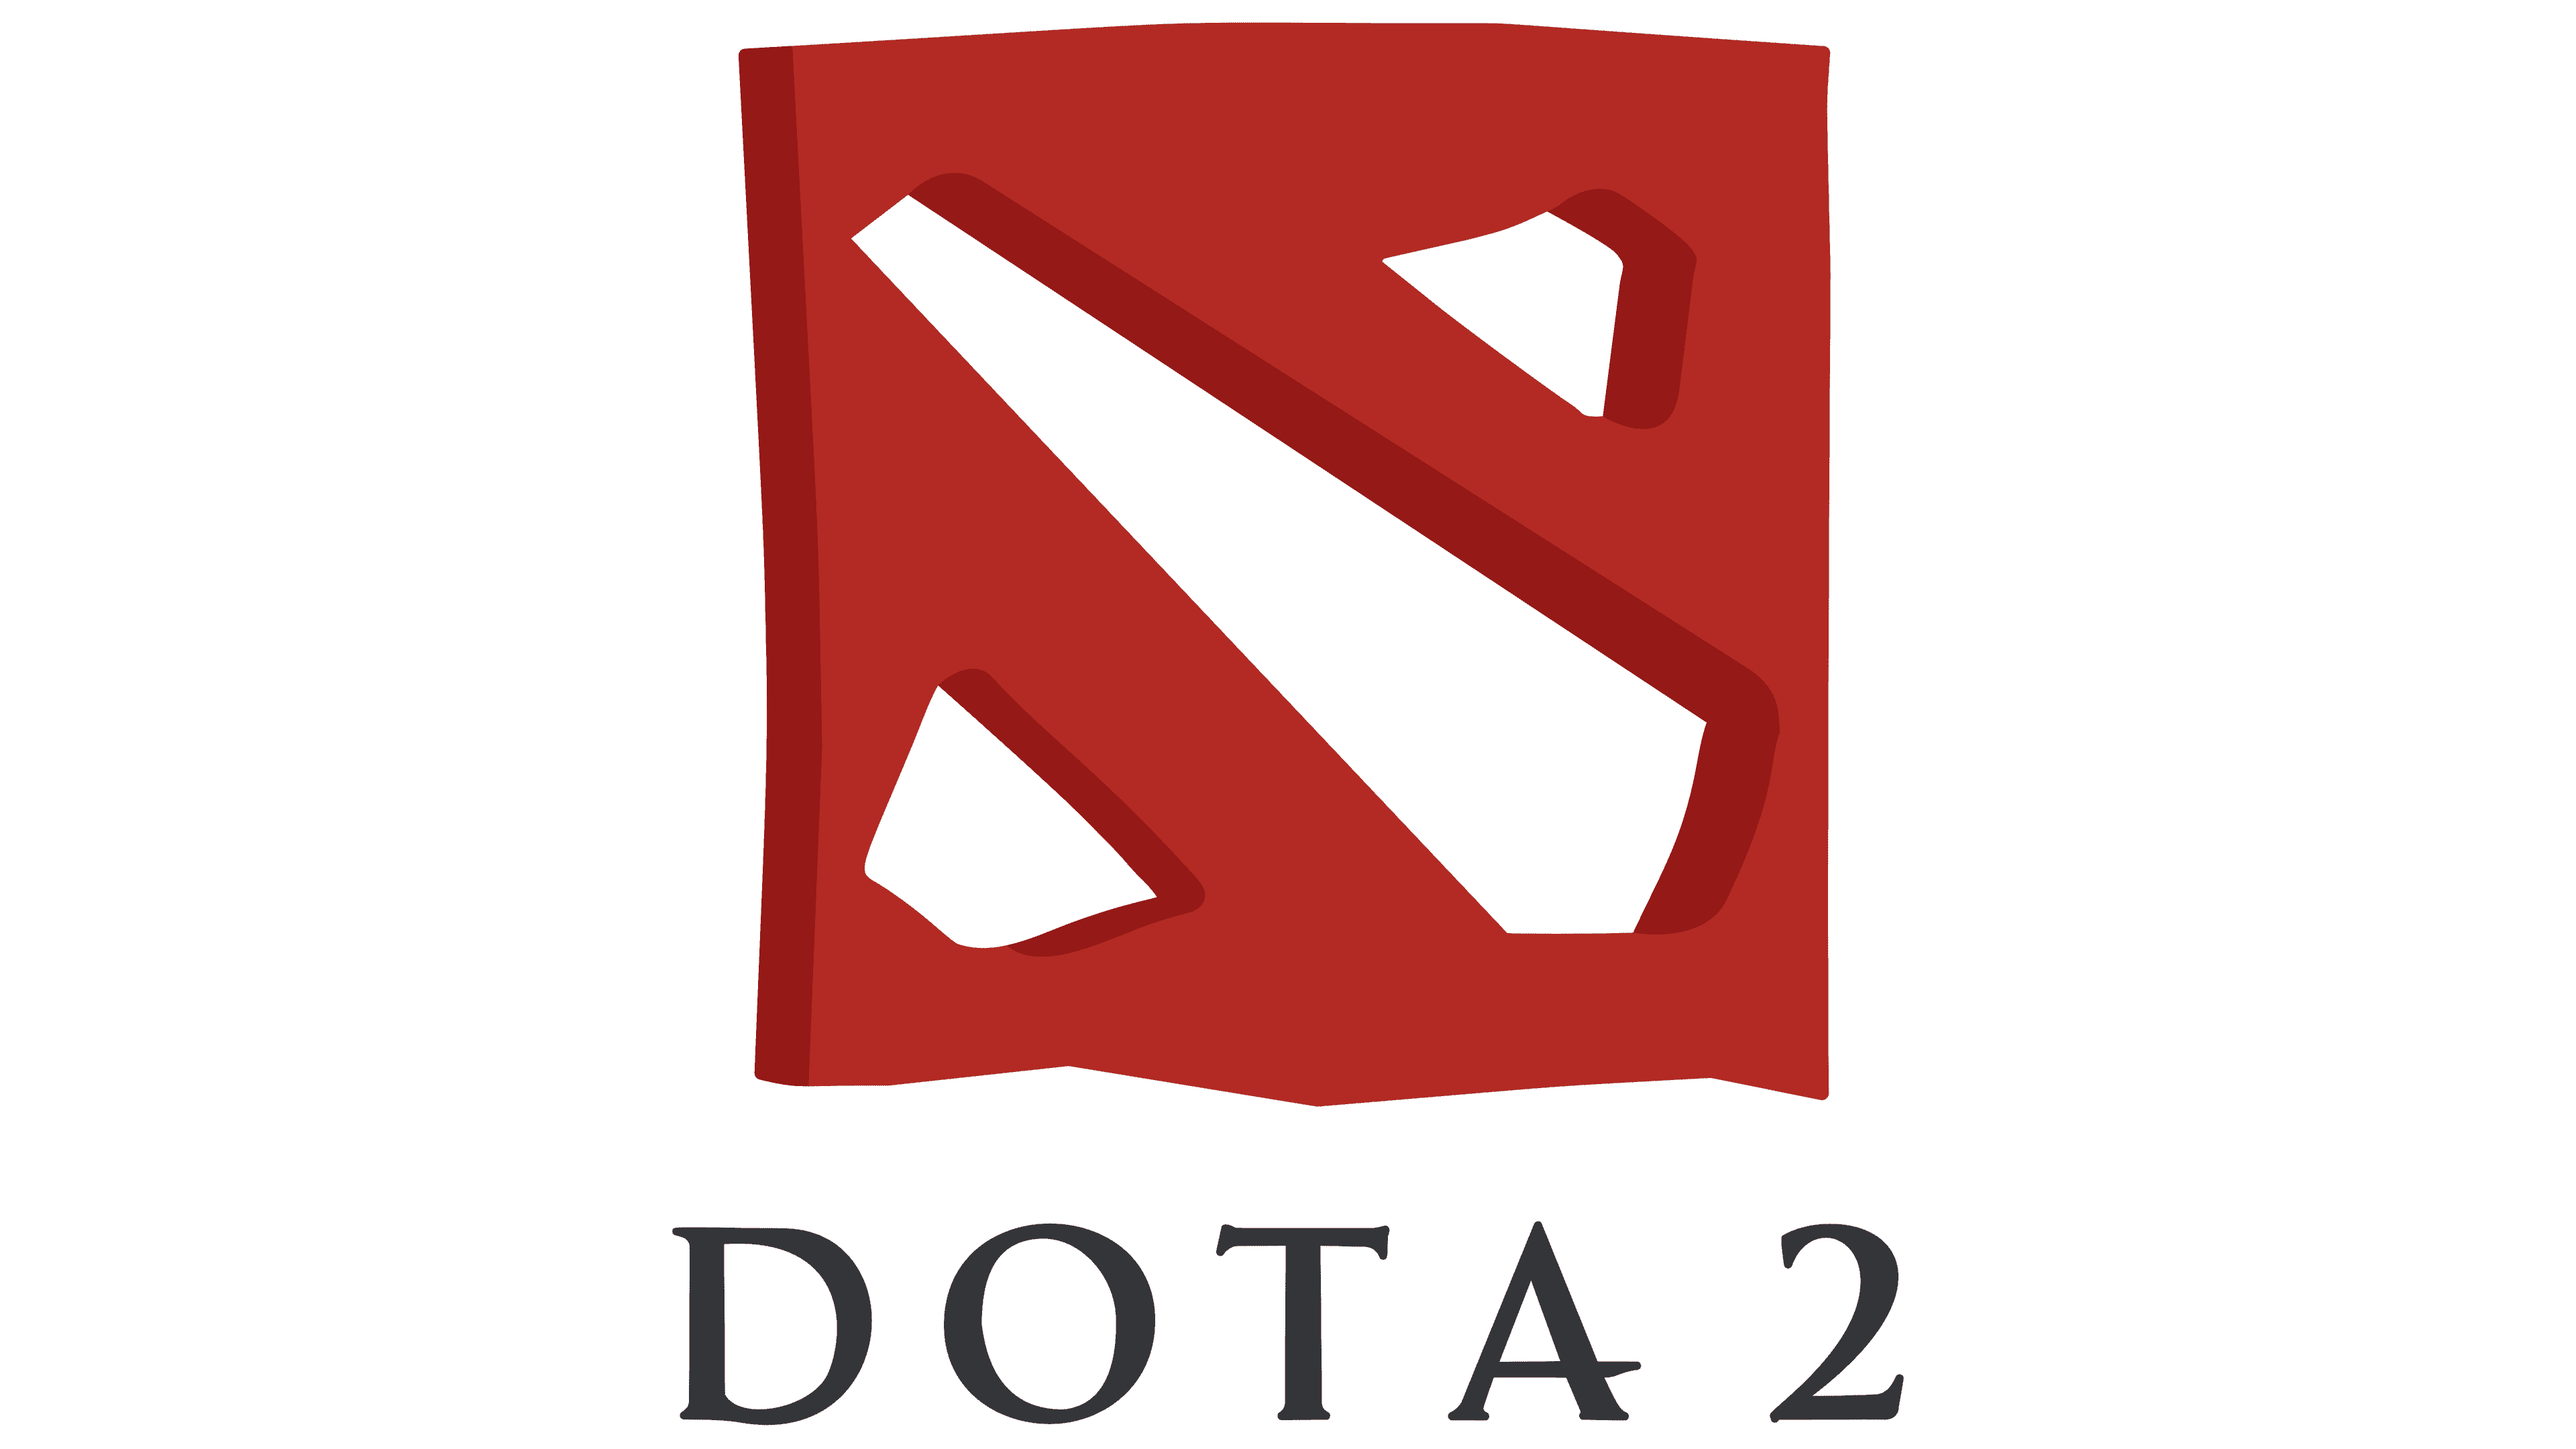
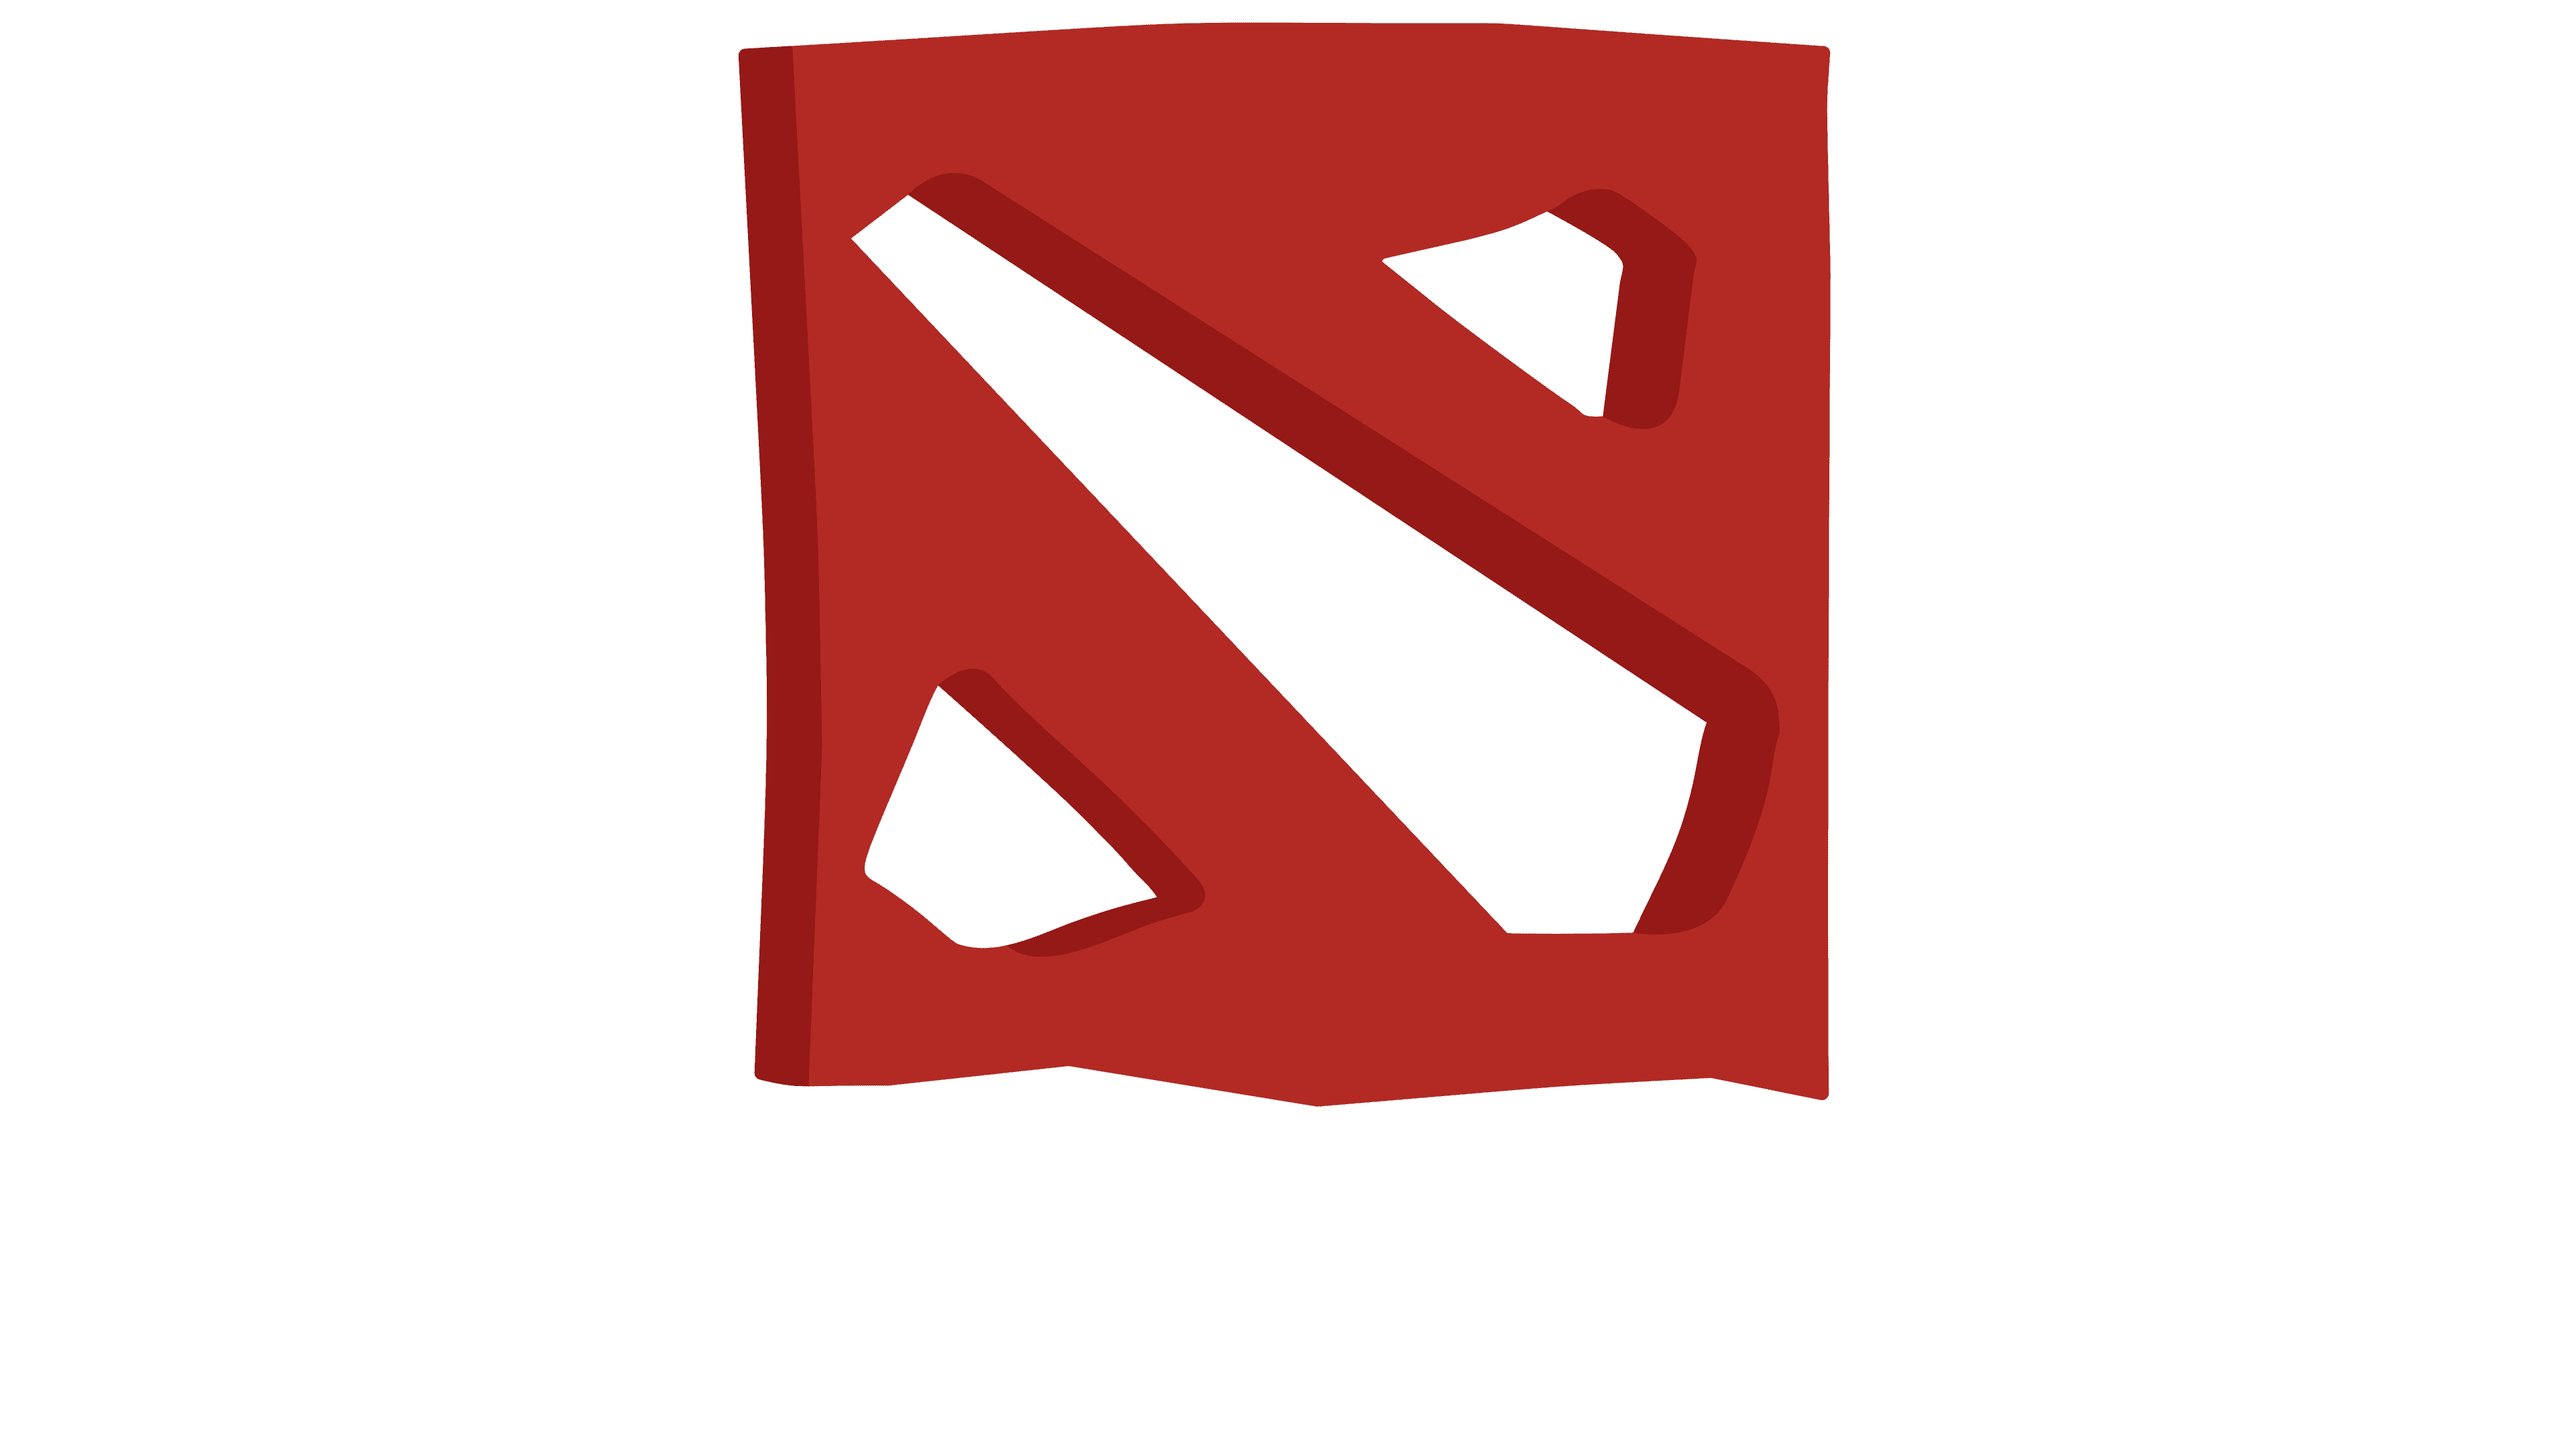
Updated Dota 2 image and colour scheme.

diff --git a/esports/dota_2/dota_2.md b/esports/dota_2/dota_2.md
@@ -1,4 +1,4 @@
 ---
 discord: https://discord.gg/ftpmQXbwxr
-colour: "#195790"
+colour: "#010e2b"
 ---
